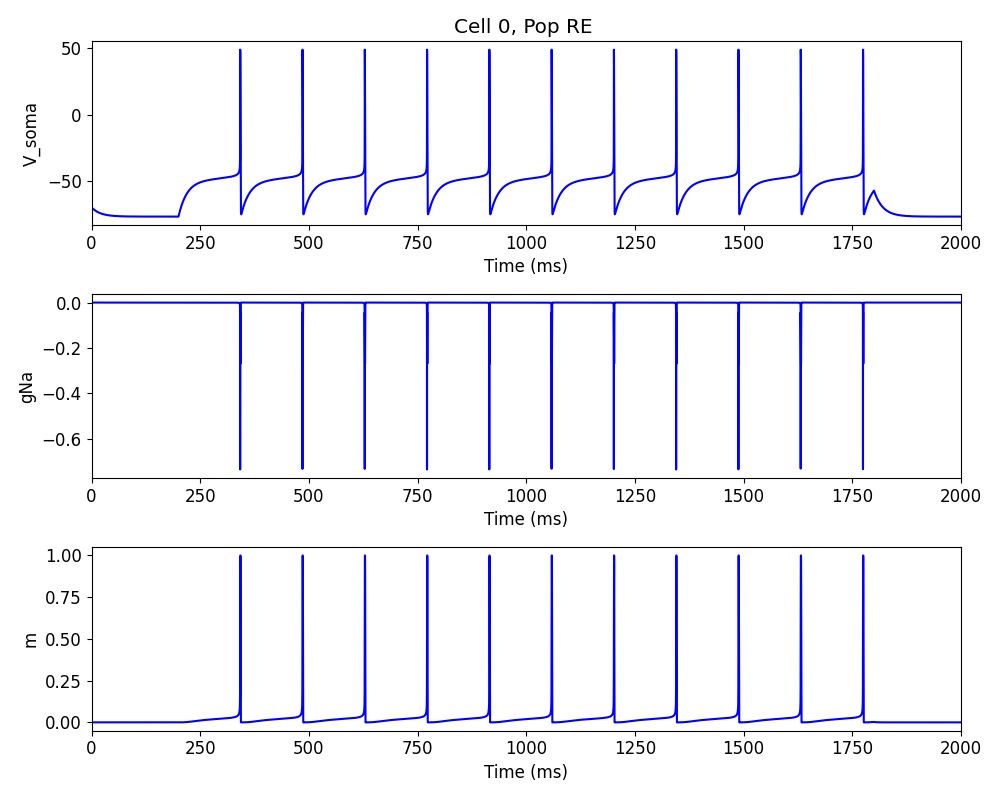
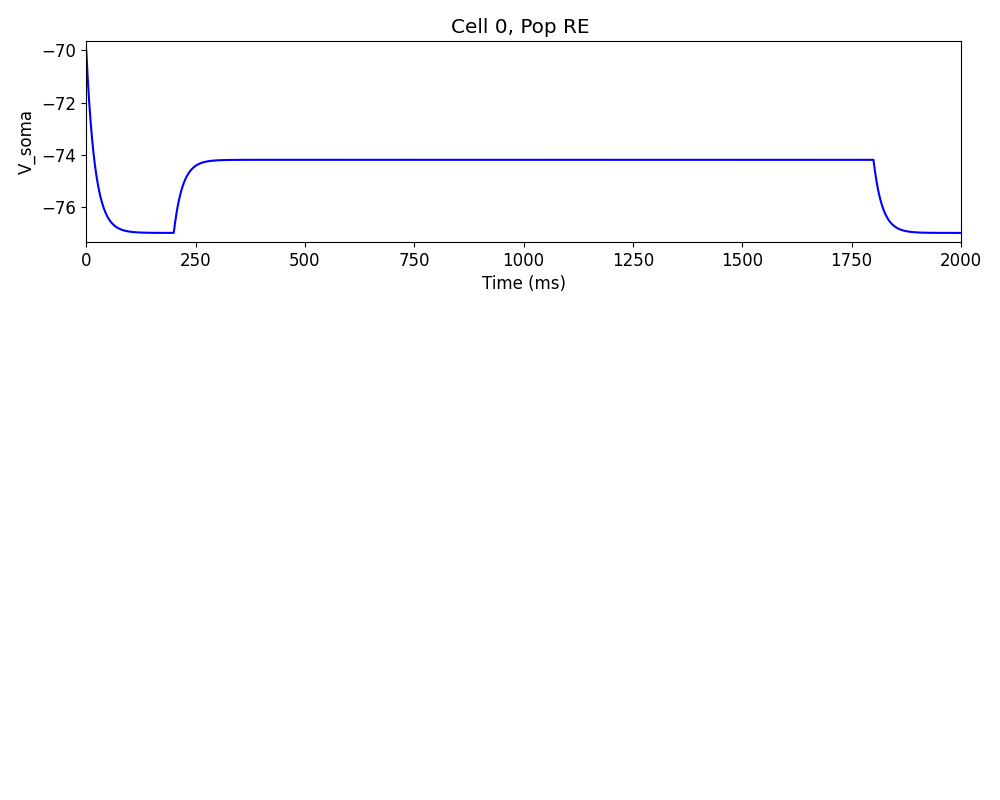
compare nml and netpy

diff --git a/NeuroML2/compare_MC/RE/omv_test.py b/NeuroML2/compare_MC/RE/omv_test.py
@@ -23,14 +23,28 @@ from pyneuroml.neuron import morphinfo, getinfo, load_hoc_or_python_file
 from pyneuroml.annotations import create_annotation
 from neuroml.utils import component_factory
 from textwrap import indent
-
+import copy
+import matplotlib
+import shutil
+import neuroml
+import numpy
+import subprocess
+from pyneuroml.io import write_neuroml2_file, read_neuroml2_file
+from pyneuroml.lems import generate_lems_file_for_neuroml
+from pyneuroml.runners import run_lems_with_jneuroml
+from pyneuroml.plot import generate_plot
+from pyneuroml.neuron.analysis.HHanalyse import get_states
+from pyneuroml.analysis.NML2ChannelAnalysis import get_channel_gates
+from pyneuroml.utils.plot import get_next_hex_color
+import neuron
+import datetime
+import random
 from pyneuroml.analysis import generate_current_vs_frequency_curve
 
 random.seed(1412)
 
 def step_current_omv():
     """Create a step current simulation OMV LEMS file"""
-    # read the cell file, modify it, write a new one
     netdoc = read_neuroml2_file("RE_reduced_cell.nml")
     RE_reduced_cell = netdoc.cells[0]
     net = netdoc.add(neuroml.Network, id="RE_reduced_cell_net", type="networkWithTemperature", temperature="34 degC", validate=False)
@@ -39,10 +53,9 @@ def step_current_omv():
     pg1 = netdoc.add(
         neuroml.PulseGenerator(
             id="pg1", delay="200ms", duration="1600ms",
-            amplitude="-1000pA"
+            amplitude="20pA"
         )
     )
-
 
     # Add these to cells
     input_list1 = net.add(
@@ -59,6 +72,20 @@ def step_current_omv():
 
     write_neuroml2_file(netdoc, "RE_reduced_cell.net.nml")
 
+    # Set up recording of IT2 channel states
+    recorder_dict = {}
+    channel = "itre"  # Channel we want to record
+    
+    channel_doc = read_neuroml2_file(f"{channel}.channel.nml")
+    ion_channel_Nernst = channel_doc.ion_channel[0]  
+    gates = get_channel_gates(ion_channel_Nernst)
+    
+    # Set up recording for each gate
+    for gate in gates:
+        recorder_dict[f"{gate}_state.dat"] = [
+            f"{pop.id}[0]/biophys/membraneProperties/itre_soma/{channel}/{gate}/q"
+        ]
+
     generate_lems_file_for_neuroml(
         sim_id="RE_reduced_cell_step_test",
         target=net.id,
@@ -68,6 +95,7 @@ def step_current_omv():
         lems_file_name="LEMS_RE_reduced_cell_step_test.xml",
         nml_doc=netdoc,
         gen_spike_saves_for_all_somas=True,
+        gen_saves_for_quantities=recorder_dict,  # Add channel state recording
         target_dir=".",
         copy_neuroml=False
     )
@@ -78,12 +106,28 @@ def step_current_omv():
 
     print(data.keys())
 
-    # print(data)
+    # Generate plots
     generate_plot(
         xvalues=[data["t"]],
         yvalues=[data["RE_reduced_cell_pop[0]/v"]],
         title="Membrane potential: RE_reduced_cell",
     )
+    
+    # Plot IT2 channel states if recorded
+    if any("itre" in key for key in data.keys()):
+        itre_states = {k: v for k, v in data.items() if "itre" in k}
+        colors = ['r', 'g', 'b', 'c', 'm', 'y']  # Different colors for each state
+        
+        generate_plot(
+            xvalues=[data["t"]] * len(itre_states),
+            yvalues=list(itre_states.values()),
+            title="itre Channel States",
+            labels=list(itre_states.keys()),
+            colors=colors[:len(itre_states)],
+            xaxis="time (ms)",
+            yaxis="state value",
+            ylim=[-0.1, 1.1]
+        )
 
 if __name__ == "__main__":
     step_current_omv()

diff --git a/NeuroML2/compare_MC/RE/RE_netpy.py b/NeuroML2/compare_MC/RE/RE_netpy.py
@@ -13,7 +13,7 @@ soma['ions']['na'] = {'e': 50.0, 'i': 10.0, 'o': 140.0}
 soma['mechs']['pas'] = {'g': 5e-5, 'e': -77}
 soma['mechs']['cadad'] = {'cainf': 0.00024, 'depth': 1, 'kd': 0.0, 'kt': 0.0, 'taur': 5}
 # soma['mechs']['kl'] = {'gmax': 3e-06}
-# soma['mechs']['itre'] = {"gmax": 0.002,"shift": 2.0}
+soma['mechs']['itre'] = {"gmax": 0.002,"shift": 2.0}
 soma['mechs']['hh2ad'] = {"gkbar": 0.01,"gnabar": 0.09,"vtraub": -50.0}
 
 
@@ -25,7 +25,7 @@ pprint.pprint(netParams.cellParams['RE_HH_reduced'])
 
 netParams.popParams['RE'] = {'cellType': 'RE_HH_reduced', 'numCells': 1}
 
-netParams.stimSourceParams['Input'] = {'type': 'IClamp', 'dur': 1600, 'del': 200, 'amp': 0.2}
+netParams.stimSourceParams['Input'] = {'type': 'IClamp', 'dur': 1600, 'del': 200, 'amp': 0.02}
 netParams.stimTargetParams['Input->RE'] = {'source': 'Input', 'sec': 'soma', 'loc': 0.5, 'conds': {'cellType': 'RE_HH_reduced'}}
 netParams.defaultThreshold = 5.0
 # Simulation options
@@ -37,11 +37,11 @@ simConfig.duration = 2000           # Duration of the simulation, in ms
 simConfig.dt = 0.01       
           # Internal integration timestep to use
 simConfig.verbose = True           # Show detailed messages
-simConfig.recordTraces = {'V_soma':{'sec':'soma','loc':0.5,'var':'v'}, 'gNa':{'sec': 'soma', 'loc': 0.5, 'mech': 'hh2ad', 'var': 'inahh2'},'m':{'sec': 'soma', 'loc': 0.5, 'mech': 'hh2ad', 'var': 'm'}}  # Dict with traces to record
+simConfig.recordTraces = {'V_soma':{'sec':'soma','loc':0.5,'var':'v'}, 'm':{'sec': 'soma', 'loc': 0.5, 'mech': 'itre', 'var': 'm'},'h':{'sec': 'soma', 'loc': 0.5, 'mech': 'itre', 'var': 'h'}}  # Dict with traces to record
 simConfig.recordStep = 0.01            # Step size in ms to save data (eg. V traces, LFP, etc)
 simConfig.filename = 'RE_reduced_all'         # Set file output name
 simConfig.savePickle = False        # Save params, network and sim output to pickle file
-simConfig.saveDataInclude = ['simData']  
+simConfig.saveDataInclude = ['simData']
 simConfig.saveJson = True 
 simConfig.analysis['plotTraces'] = {'include': [0], 'saveFig': True}  # Plot recorded traces for this list of cells
 simConfig.analysis['plotRaster'] = {'saveFig': True}                  # Plot a raster